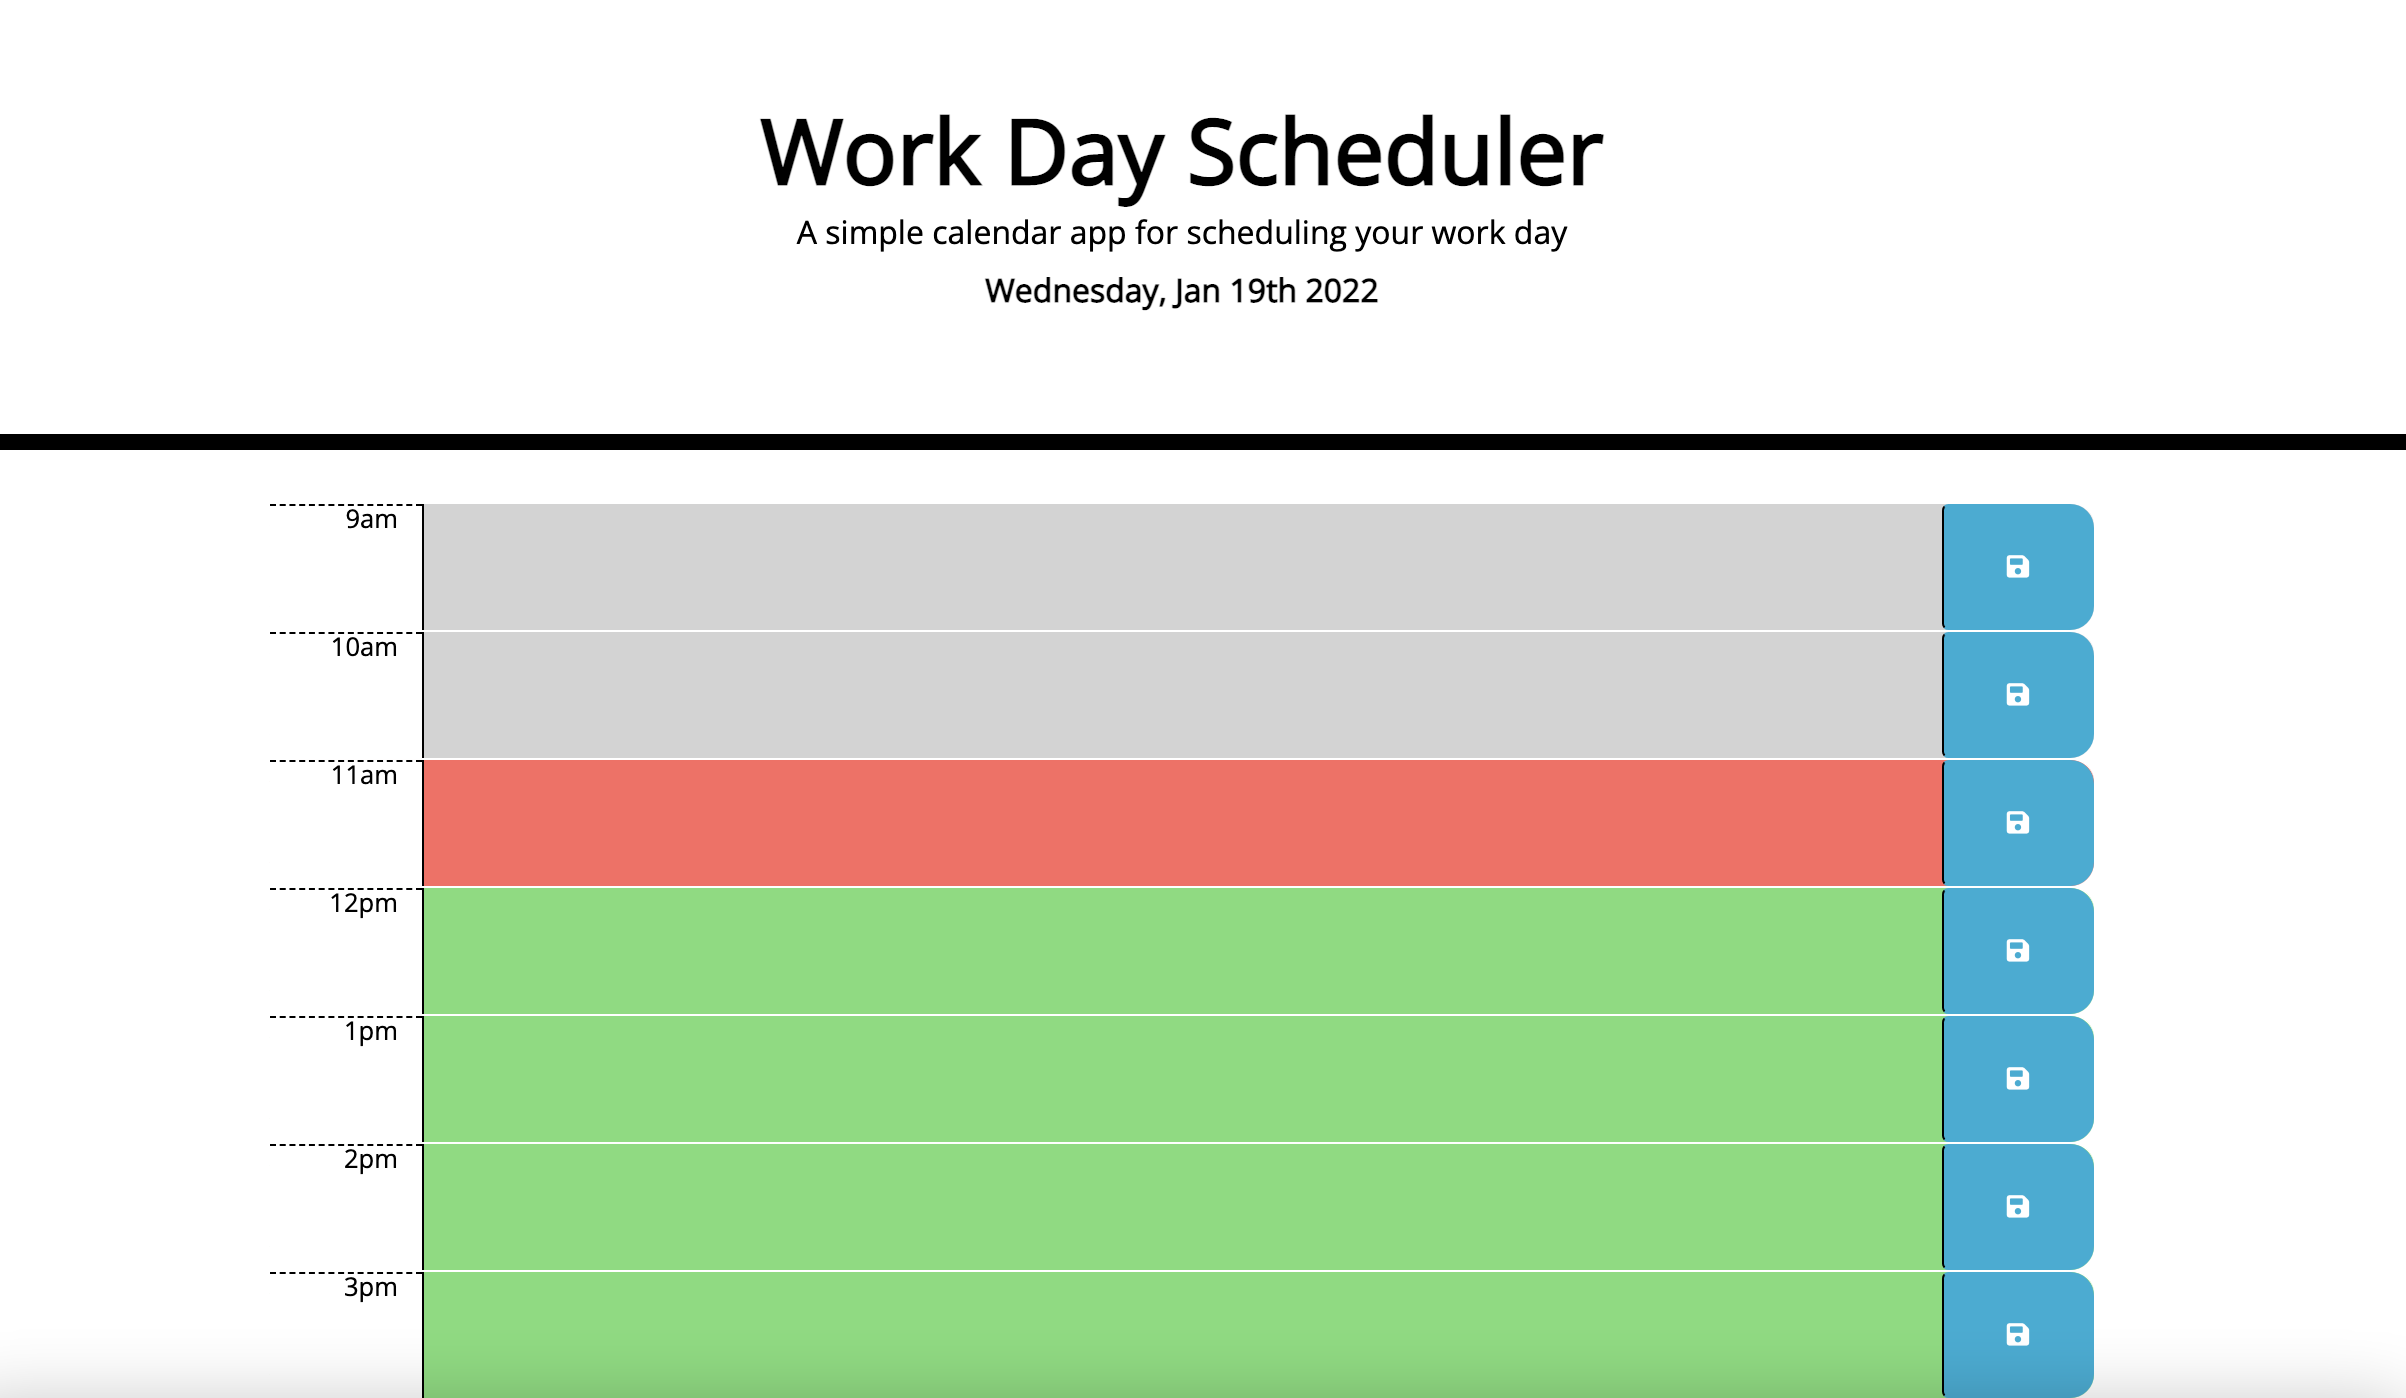
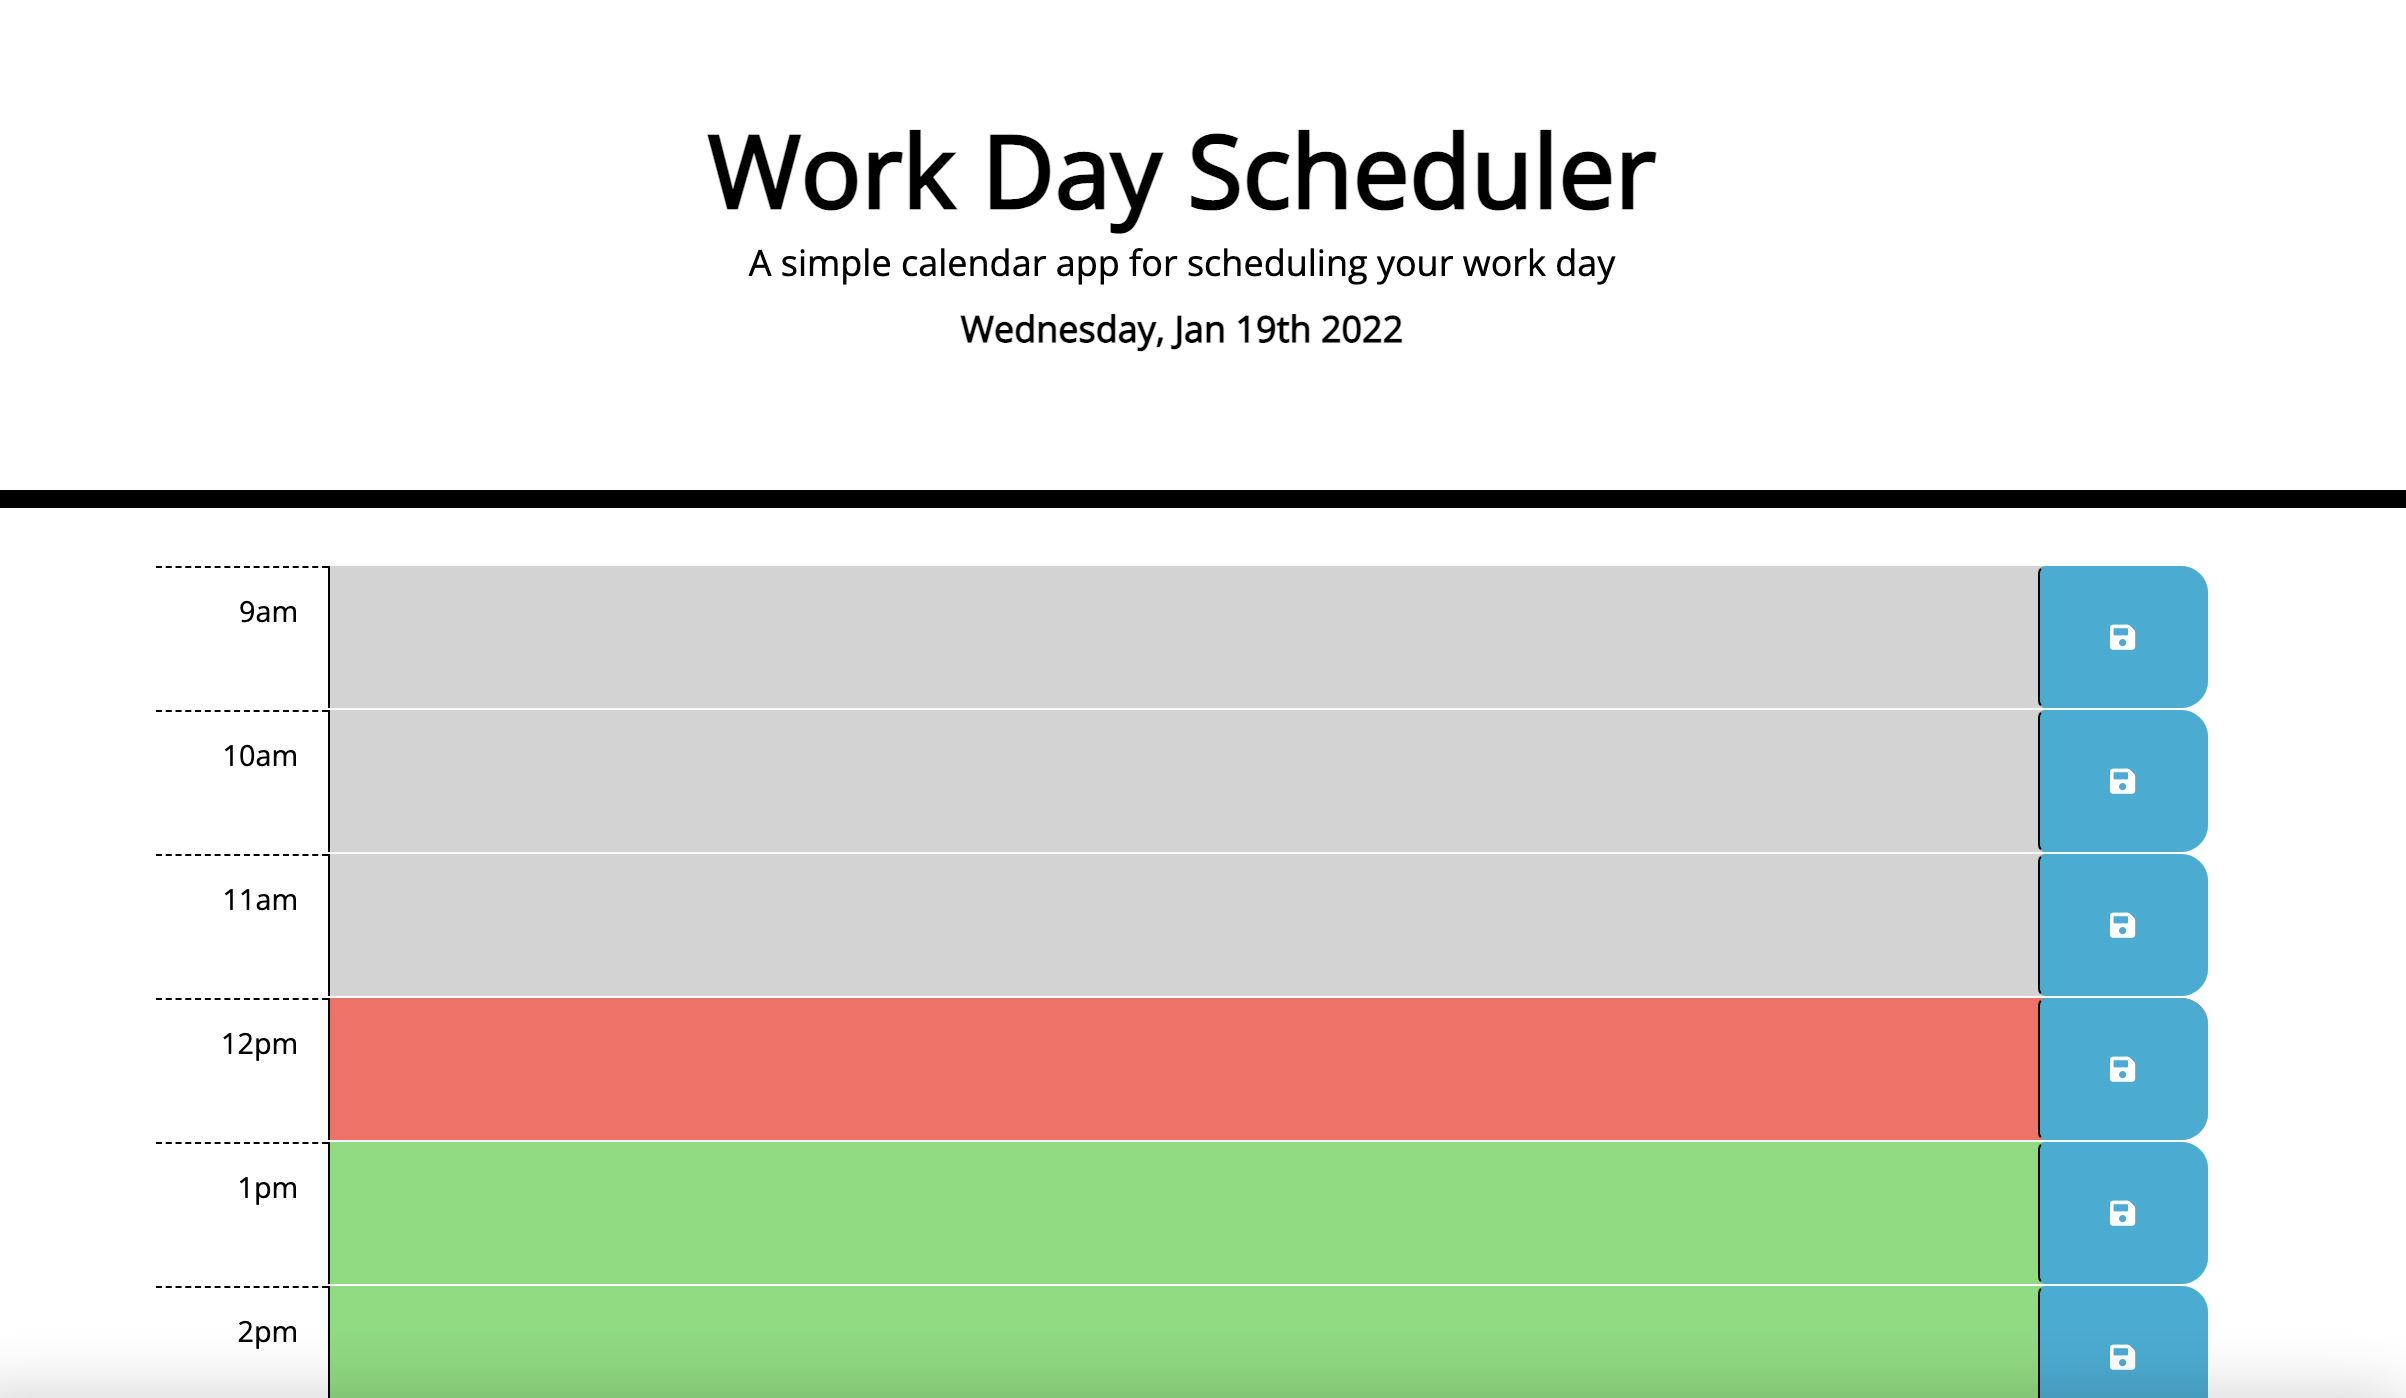
added some padding to the hour

diff --git a/assets/js/script.js b/assets/js/script.js
@@ -13,7 +13,7 @@ var createTimeBlockEl = function (time, textArea) {
     class: "row time-block",
     "data-time": time,
   });
-  var colTime = $("<div>").attr("class", "col-2 col-md-1 hour text-right");
+  var colTime = $("<div>").attr("class", "col-2 col-md-1 hour text-right p-3");
   var colTextArea = $("<textarea>").attr(
     "class",
     "col-8 col-md-10 description"
